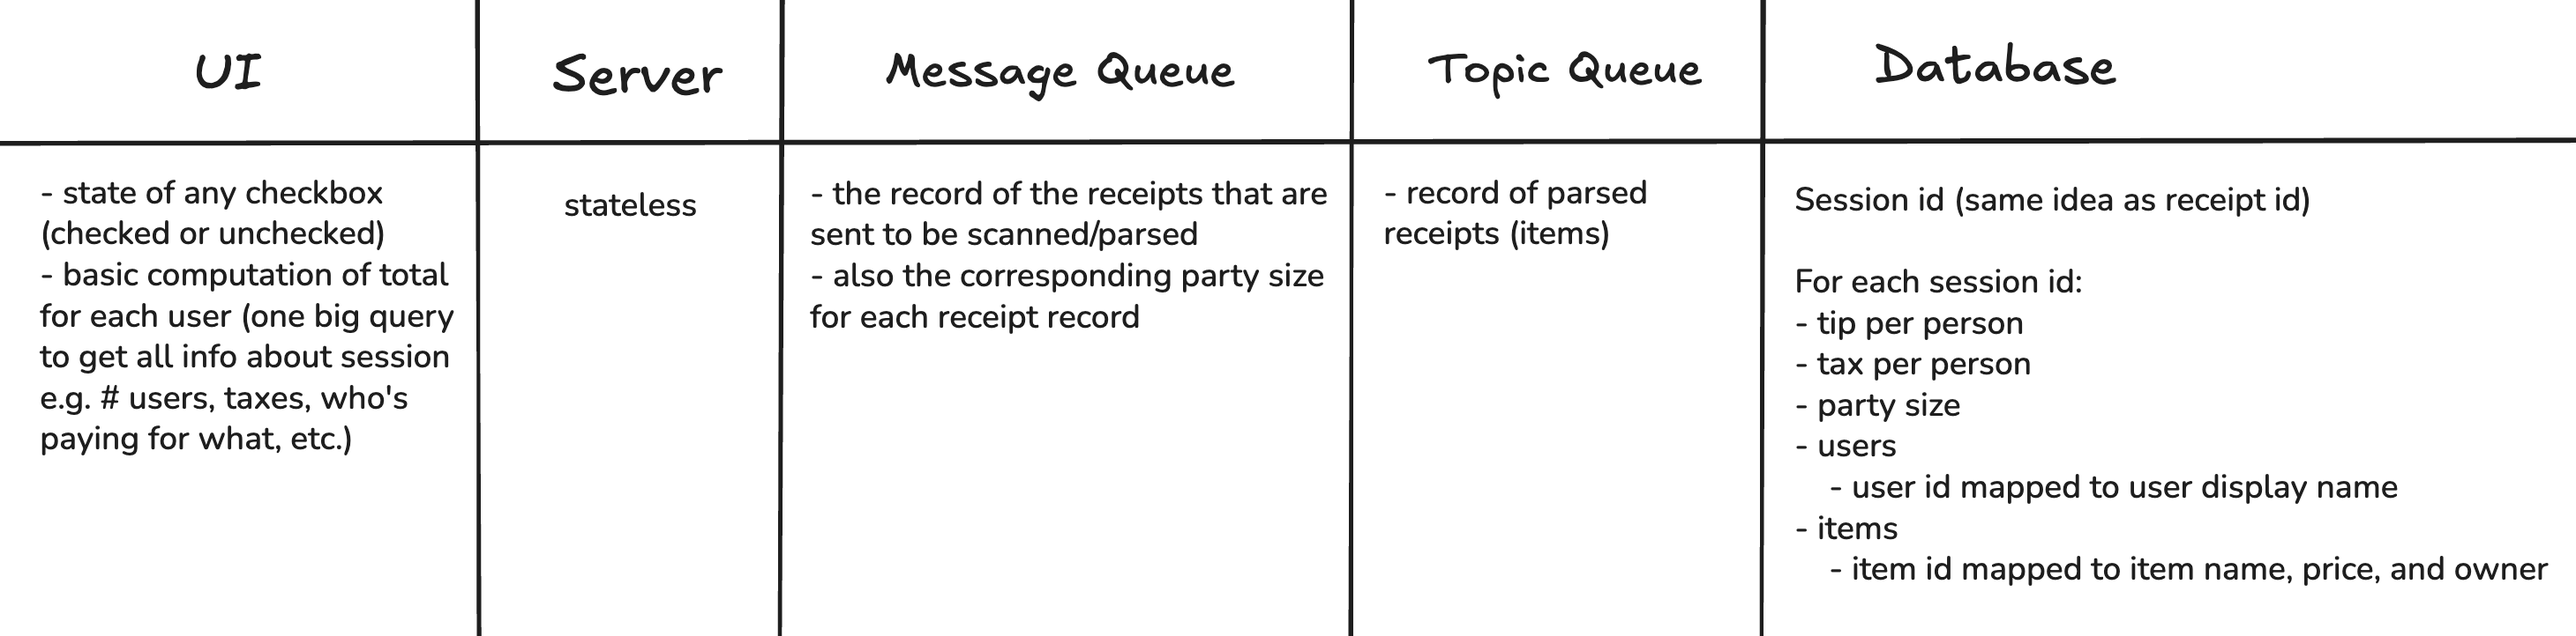
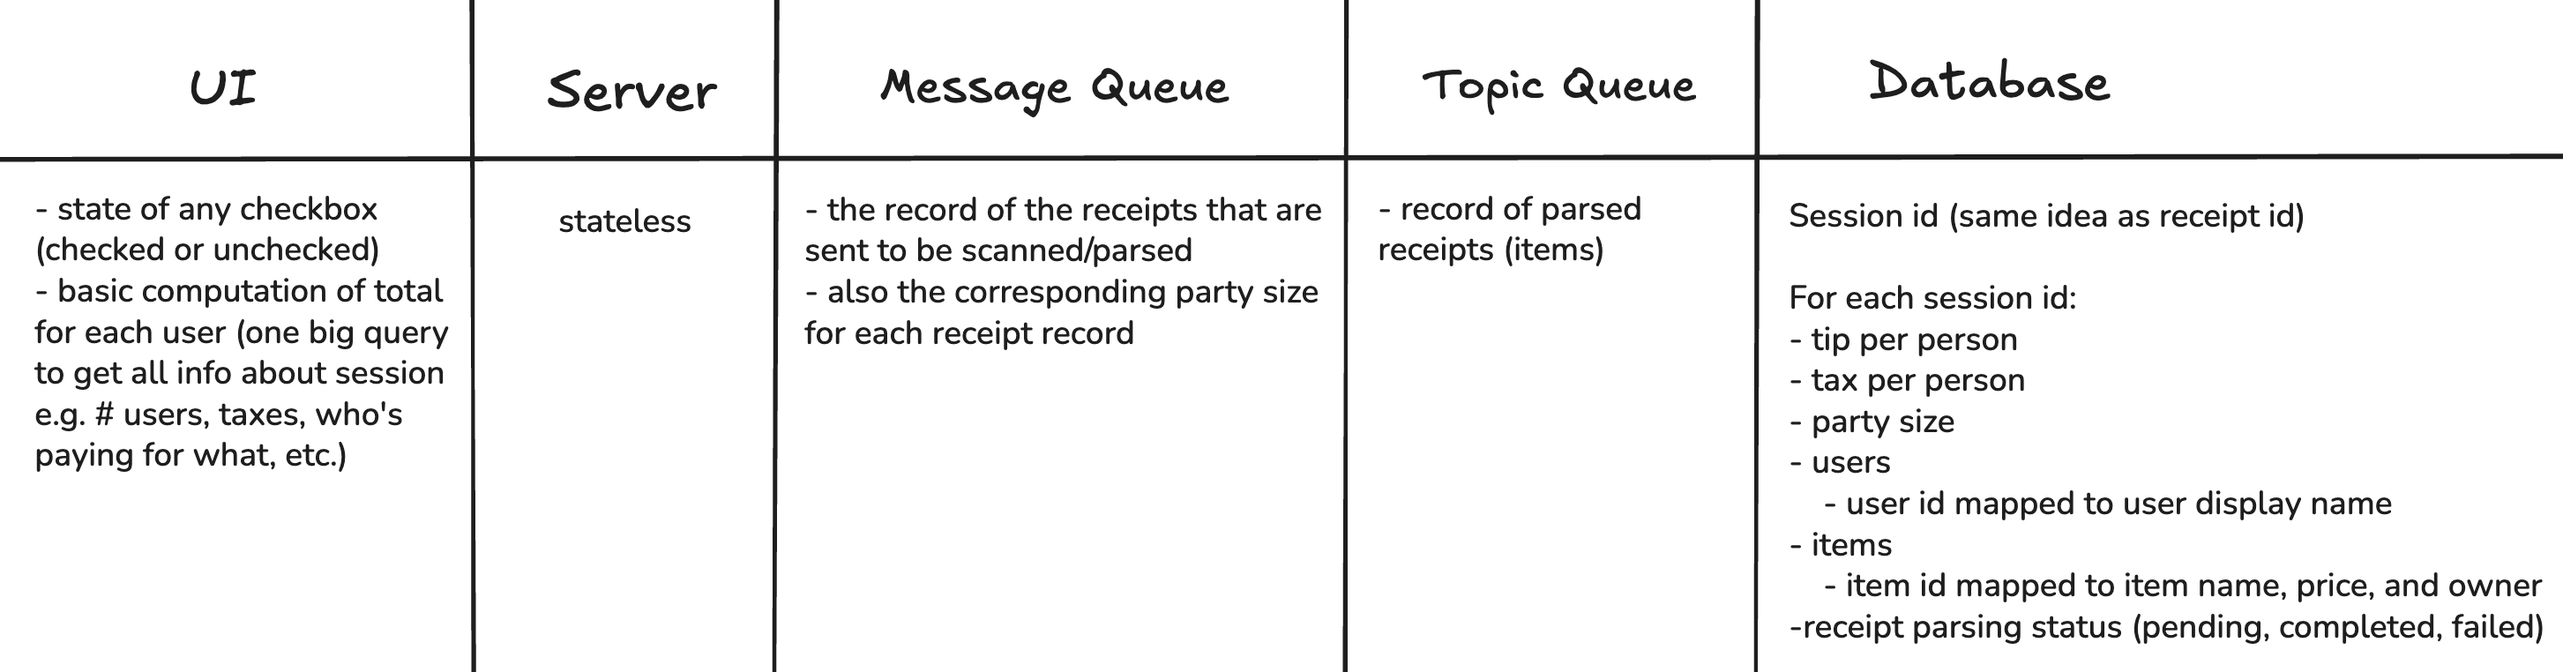
added data schema and updated state model to match

diff --git a/design/DESIGN.md b/design/DESIGN.md
@@ -1,7 +1,8 @@
 # A Better Bill Split App: Design Doc
 
 ## Architecture Overview
-We will be implementing a bill splitting app where users can upload a picture of their receipt, claim items, and view the exact amount they are responsible for. The key functionalities for the app include:
+We will be implementing a bill splitting app where users can upload a picture of their receipt, claim items, 
+and view the exact amount they are responsible for. The key functionalities for the app include:
 - A group leader can upload a photo of their receipt.
 - Users can see their portion of the bill calculated after claiming items from the receipt.
 
@@ -17,12 +18,16 @@ We will use the following tech stack:
 Our architecture is designed to handle asynchronous processing, OCR, and real-time concurrency. 
 The pros and cons of our design choices are as follows:
 - **Frontend:** Next.js 
-  - **Pros:** It enables a fast, responsive UI for client-side rendering. This allows users a smooth process of claiming and unclaiming items. 
-  - **Cons:** Keeping the frontend state consistent across multiple users in real time increases concurrency requirements and adds complexity to the system design, especially when session data changes often.
+  - **Pros:** It enables a fast, responsive UI for client-side rendering. This allows users a smooth 
+  process of claiming and unclaiming items. 
+  - **Cons:** Keeping the frontend state consistent across multiple users in real time increases 
+  concurrency requirements and adds complexity to the system design, especially when session data changes often.
 - **Backend:** GraphQL APIs with Spring Boot 
-  - **Pros:** GraphQL allows the client to request and retrieve the necessary data they need without underfetching or overfetching. 
-  - **Cons:** Since the server is stateless, every user interaction, such as a call to claim and unclaim an item, triggers a write to the database. This increases the load on the database and requires using atomic operations when manipulating it to ensure concurrency.
-
+  - **Pros:** GraphQL allows the client to request and retrieve the necessary data they need without 
+  underfetching or overfetching. 
+  - **Cons:** Since the server is stateless, every user interaction, such as a call to claim and 
+  unclaim an item, triggers a write to the database. This increases the load on the database and 
+  requires using atomic operations when manipulating it to ensure concurrency.
 
 ### Sequence Diagrams
 
@@ -30,8 +35,17 @@ The pros and cons of our design choices are as follows:
 ![state-model.png](state-model.png)
 
 ## Database Schema
+![data-schema.png](data-schema.png)
 
-
+Our database schema includes a Sessions table for every session that is created. 
+It is initialized with the party size the group leader inputs. To store information about a session efficiently, 
+we will be using a document-based database. The Users column stores information about each user in a JSONB data 
+format with their userID and their names. Similarly, the Items column uses JSONB to map each item’s itemID to 
+its name, price, and owner. To ensure there is smooth communication and error handling between boundaries, 
+we added a Parsing column to store the parsing status of the receipt at any given time. After the receipt has 
+been sent to the Parsing Service, it will be marked as PENDING. After the Parsing Service sends it to the Topic Queue, 
+it will mark it as COMPLETED. If there are any errors, it will be labeled as FAILED. This makes sure that the 
+server and UI remain clear about what the receipt’s current status is.
 
 ## API Design
 
